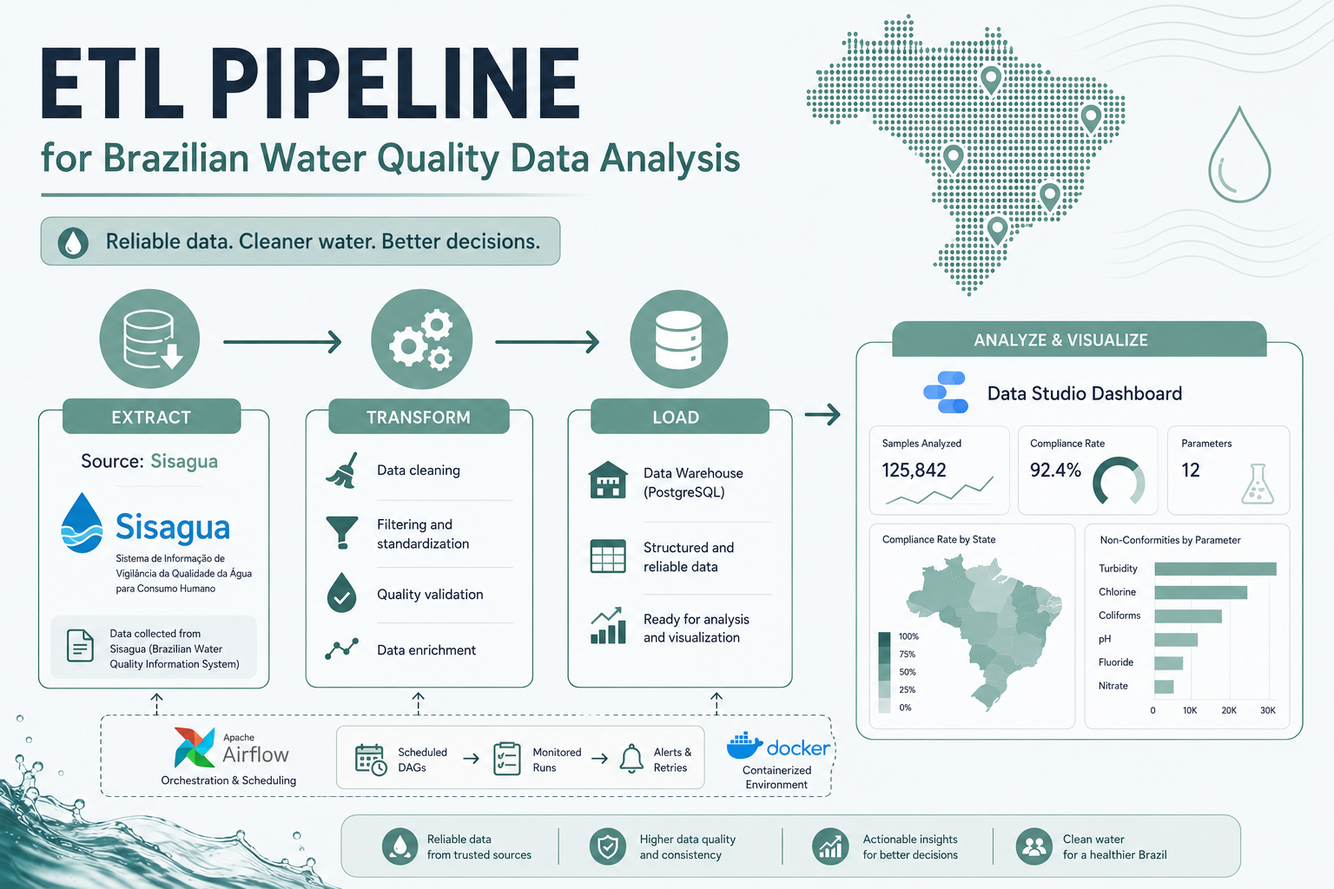
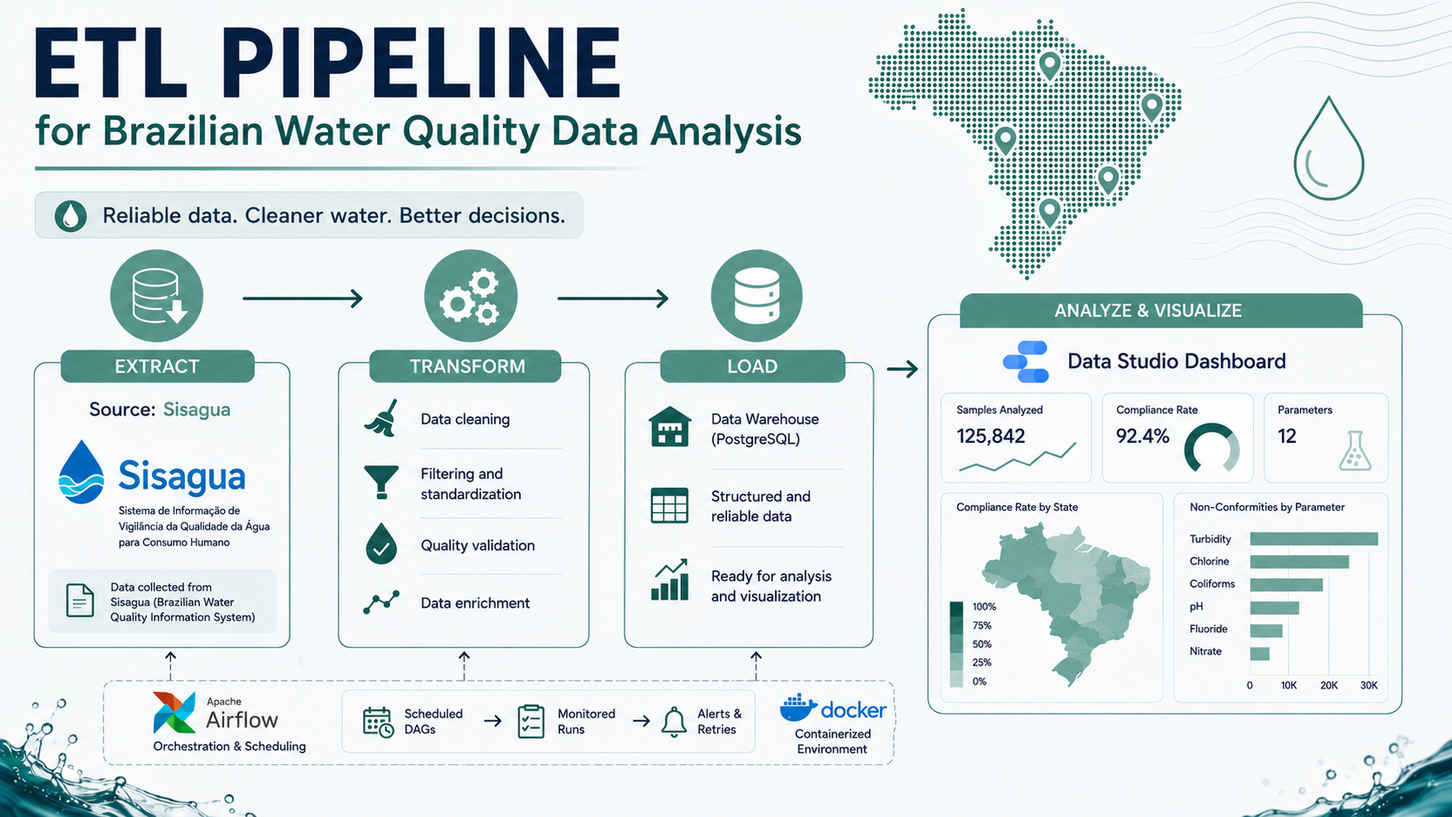
updates

diff --git a/data/projects/data/water-quality-etl.ts b/data/projects/data/water-quality-etl.ts
@@ -11,22 +11,31 @@ export const waterQualityEtl: Project = {
     en: "From ETL to Analysis",
   },
   thumbnail: "/images/portfolio/data/water-quality-etl.png",
+  gallery: "/images/portfolio/data/water-quality-etl-gallery.png",
   date: "2026-08-23",
-  tags: ["ETL", "Python", "SQL", "Docker", "Airflow", "DAG", "Looker/Data Studio"],
+  tags: ["ETL", "Python", "SQL", "Docker", "Airflow", "DAG", "Data Studio"],
   links: [{ label: "Github", href: "https://github.com/gsiq8/water-quality-etl" }],
   body: [
     {
-      type: "paragraph",
-      text: {
-        en: "Back in 2023, I built a personalized email marketing tool for an e-commerce client — pull a customer's zip code, look up their local tap water quality, send them a report. It worked, but it was heavier and more expensive to run than it needed to be, mostly because Brazil's water quality system (SISAGUA) didn't have a public API yet. You had to work with bulk CSV exports, which meant a lot of manual wrangling before any of the data was usable.",
-        pt: "Em 2023, construí uma ferramenta de email marketing personalizada para um cliente de e-commerce — pegar o CEP do cliente, buscar a qualidade da água da torneira na região dele, enviar um relatório. Funcionava, mas era mais pesado e mais caro de rodar do que precisava ser, principalmente porque o sistema de qualidade da água do Brasil (SISAGUA) ainda não tinha uma API pública. Era preciso trabalhar com exportações de CSV em lote, o que significava bastante trabalho manual antes que os dados ficassem utilizáveis.",
-      },
+      type: "heading",
+      text: { en: "Overview", pt: "Visão Geral" },
     },
     {
       type: "paragraph",
       text: {
-        en: 'This year I rebuilt the same idea from scratch, smaller and on free tiers, as a live demo you can actually poke at: a pipeline that pulls Brazil\'s tap water quality data straight from the government\'s open-data API, cleans it up into something a non-technical person could actually read, and serves it back out through a Postgres database and a Looker Studio dashboard. You can check it out below. The marketing automation piece — the original email report flow — is still part of the project, but that\'s its own story; I get into it in more detail here [link TBD].',
-        pt: "Neste ano, reconstruí a mesma ideia do zero, menor e rodando em camadas gratuitas, como uma demo ao vivo que dá para explorar de verdade: um pipeline que puxa os dados de qualidade da água da torneira do Brasil direto da API de dados abertos do governo, limpa tudo até virar algo que uma pessoa não técnica consiga ler, e devolve isso através de um banco Postgres e um dashboard no Looker Studio. Você pode conferir abaixo. A parte de automação de marketing — o fluxo original de envio de relatório por email — ainda faz parte do projeto, mas é uma história à parte; entro em mais detalhes sobre isso aqui [link a definir].",
+        en: "I rebuilt a real-world water quality data pipeline from the ground up. It now pulls, cleans, and serves 2.3M+ records straight from Brazil's open government water-quality API (SISAGUA), fully automated and running on free-tier infrastructure. The output is a live dashboard, embedded below, plus the same email report tool the project started as: drop in a Brazilian zip code and get back what's actually in the local tap water.",
+        pt: "Reconstruí do zero um pipeline de dados real sobre qualidade da água. Hoje ele puxa, limpa e disponibiliza mais de 2,3 milhões de registros direto da API de dados abertos de qualidade da água do governo brasileiro (SISAGUA), de forma totalmente automatizada e rodando em infraestrutura de camada gratuita. O resultado é um dashboard ao vivo, incorporado abaixo, além da mesma ferramenta de relatório por email com que o projeto começou: informe um CEP brasileiro e receba o que realmente tem na água da torneira daquele local.",
+      },
+    },
+    {
+      type: "heading",
+      text: { en: "Architecture", pt: "Arquitetura" },
+    },
+    {
+      type: "paragraph",
+      text: {
+        en: "Raw records come in through SISAGUA's open-data API, get cleaned and transformed in Python, and land in a PostgreSQL database. Rather than storing the API response as-is, I designed the schema around the questions the BI layer actually needs to answer — not a raw dump. Airflow orchestrates the whole pipeline on a schedule, running fully containerized in Docker, with separate paths for incremental loads (day-to-day updates) and full historical loads (rebuilding from scratch); the same containers produce the same result whether the pipeline is processing a small update or rebuilding the full historical dataset. Data-quality validation runs automatically before anything reaches the dashboard, and Looker Studio reads straight from Postgres for the dashboard below.",
+        pt: "Os registros brutos chegam pela API de dados abertos do SISAGUA, são limpos e transformados em Python, e armazenados em um banco PostgreSQL. Em vez de guardar a resposta da API como ela vem, desenhei o schema em torno das perguntas que a camada de BI realmente precisa responder — não um despejo bruto de dados. O Airflow orquestra todo o pipeline de forma agendada, rodando totalmente containerizado em Docker, com caminhos separados para cargas incrementais (atualizações do dia a dia) e cargas históricas completas (reconstrução do zero); os mesmos containers produzem o mesmo resultado tanto processando uma atualização pequena quanto reconstruindo o histórico completo. A validação de qualidade dos dados roda automaticamente antes que qualquer coisa chegue ao dashboard, e o Looker Studio lê direto do Postgres para o dashboard abaixo.",
       },
     },
     {
@@ -35,31 +44,50 @@ export const waterQualityEtl: Project = {
       title: "Water Quality Dashboard",
     },
     {
+      type: "heading",
+      text: { en: "Engineering Challenges", pt: "Desafios de Engenharia" },
+    },
+    {
       type: "paragraph",
       text: {
-        en: 'The interesting part of rebuilding this wasn\'t the happy path, it was how much of the "obvious" plan turned out to be wrong once I actually tested it against live data. SISAGUA\'s API has five endpoints that looked like they\'d cover everything I needed — basic parameters, "other" parameters, samples out of spec, infrastructure, sampling plans. I built against all five, and only then noticed something off: the endpoint that was supposed to carry metals and pesticide readings wasn\'t returning any. I sampled it deep — hundreds of thousands of records in — and it was the same single microbiological parameter over and over. So I went back to the full API spec instead of just the five endpoints I\'d been told about, and found a different one entirely (a semester-based endpoint) that actually had the metals, pesticides, and organic compound data, with the safety threshold for each parameter built right into the record.',
-        pt: 'A parte interessante de reconstruir isso não foi o caminho feliz, foi o quanto do plano "óbvio" se mostrou errado assim que testei contra dados reais. A API do SISAGUA tem cinco endpoints que pareciam cobrir tudo que eu precisava — parâmetros básicos, "outros" parâmetros, amostras fora do padrão, infraestrutura, planos de amostragem. Construí em cima dos cinco, e só depois percebi algo estranho: o endpoint que deveria trazer leituras de metais e agrotóxicos não estava retornando nada. Investiguei bem a fundo — centenas de milhares de registros depois — e era sempre o mesmo único parâmetro microbiológico. Então voltei para a especificação completa da API em vez de me limitar aos cinco endpoints que eu tinha mapeado, e encontrei um totalmente diferente (um endpoint semestral) que de fato tinha os dados de metais, agrotóxicos e compostos orgânicos, com o limite de segurança de cada parâmetro já embutido no registro.',
+        en: "SISAGUA's API has five documented endpoints that looked like they covered everything I needed. I built against all five, then noticed one — the one that was supposed to carry metals and pesticide readings — was returning the same single microbiological parameter over and over, hundreds of thousands of records in. Going back to the full API spec instead of the five endpoints I'd been pointed to, I found a different one entirely: a semester-based endpoint that actually had the metals, pesticides, and organic compound data, with the safety threshold for each parameter built right into the record.",
+        pt: "A API do SISAGUA tem cinco endpoints documentados que pareciam cobrir tudo que eu precisava. Construí em cima dos cinco, e só depois percebi que um deles — o que deveria trazer leituras de metais e agrotóxicos — estava retornando sempre o mesmo único parâmetro microbiológico, centenas de milhares de registros depois. Voltando para a especificação completa da API em vez de me limitar aos cinco endpoints que eu tinha mapeado, encontrei um totalmente diferente: um endpoint semestral que de fato tinha os dados de metais, agrotóxicos e compostos orgânicos, com o limite de segurança de cada parâmetro já embutido no registro.",
       },
     },
     {
       type: "paragraph",
       text: {
-        en: 'That safety threshold — VMP, Valor Máximo Permitido, the max allowed value per parameter — turned into its own rabbit hole. I wanted every report to show not just "here\'s what\'s in your water" but "here\'s whether that\'s actually safe." The obvious move was to look up Brazil\'s official potability standard and hardcode the limits. Except the sources I found online disagreed with each other on the same parameter, and I wasn\'t willing to guess at something health-related. Digging into a historical government dataset I already had access to, I found the real thresholds — and then found something more interesting: those thresholds actually change over time, as the regulation gets revised. A value I\'d grabbed from 2022 data was already out of date by 2024. So instead of hardcoding anything, the pipeline now pulls the threshold live, matched to the exact period each water sample was collected in. It\'s a small design choice, but it\'s the difference between "looks right" and "is right."',
-        pt: 'Esse limite de segurança — o VMP, Valor Máximo Permitido — virou seu próprio buraco de coelho. Eu queria que cada relatório mostrasse não só "aqui está o que tem na sua água", mas "aqui está se isso é seguro ou não". O caminho óbvio era buscar o padrão oficial de potabilidade do Brasil e fixar os limites no código. Só que as fontes que encontrei online divergiam entre si no mesmo parâmetro, e eu não estava disposta a chutar algo relacionado à saúde. Cavando em uma base de dados histórica do governo à qual eu já tinha acesso, encontrei os limites reais — e aí encontrei algo mais interessante ainda: esses limites mudam ao longo do tempo, conforme a regulamentação é revisada. Um valor que eu tinha pego de dados de 2022 já estava desatualizado em 2024. Então, em vez de fixar qualquer coisa no código, o pipeline agora busca o limite ao vivo, casado com o período exato em que cada amostra de água foi coletada. É uma escolha pequena de design, mas é a diferença entre "parece certo" e "está certo".',
+        en: 'That safety threshold — VMP, the maximum allowed value per parameter — turned into the most interesting engineering decision in the project. My first instinct was to hardcode Brazil\'s official potability limits. Then I found the limits themselves change over time as the regulation gets revised — a threshold pulled from 2022 data was already outdated by 2024. So instead of hardcoding anything, the pipeline models the threshold as time-dependent: each water sample is validated against the VMP that was actually in effect on the date it was collected. It\'s a small design choice, but it\'s the difference between data that looks right and data that is right.',
+        pt: 'Esse limite de segurança — o VMP, o valor máximo permitido por parâmetro — virou a decisão de engenharia mais interessante do projeto. Meu primeiro instinto foi fixar no código os limites oficiais de potabilidade do Brasil. Só que descobri que esses limites mudam ao longo do tempo, conforme a regulamentação é revisada — um valor pego de dados de 2022 já estava desatualizado em 2024. Então, em vez de fixar qualquer coisa no código, o pipeline modela o limite como algo dependente do tempo: cada amostra de água é validada contra o VMP que estava de fato em vigor na data em que foi coletada. É uma escolha pequena de design, mas é a diferença entre dados que parecem certos e dados que estão certos.',
       },
     },
     {
       type: "paragraph",
       text: {
-        en: "The rest of the build was the usual pile of infrastructure gremlins that don't show up until you actually run things end to end: Airflow's newer major version quietly renamed half the API I'd built DAGs against before, Docker's default networking couldn't reach Supabase's direct connection at all (IPv6-only, fixed by switching to their connection pooler), and a couple of unpinned dependencies in an old requirements file broke cleanly in a fresh container even though they'd worked fine in a stale local environment for years. None of these are exotic problems — they're the kind of thing you only catch by actually deploying, not by reading the code and assuming it's fine.",
-        pt: "O resto da construção foi a pilha usual de perrengues de infraestrutura que só aparecem quando você roda tudo de ponta a ponta de verdade: uma versão mais nova do Airflow renomeou silenciosamente metade da API sobre a qual eu tinha construído as DAGs, a rede padrão do Docker não conseguia alcançar a conexão direta do Supabase de jeito nenhum (só IPv6, resolvido trocando para o pooler de conexão deles), e algumas dependências sem versão fixada em um requirements antigo quebraram na hora em um container novo, mesmo tendo funcionado bem em um ambiente local desatualizado por anos. Nenhum desses é um problema exótico — são o tipo de coisa que só aparece quando você realmente faz o deploy, não quando você lê o código e assume que está tudo bem.",
+        en: "The rest of the build was the usual pile of infrastructure issues that don't show up until you run things end to end: a newer major version of Airflow deprecated part of the API my existing DAGs were built against, so upgrading meant rewriting the affected task definitions; Docker's default networking couldn't reach Supabase's direct connection at all because it's IPv6-only, fixed by switching to Supabase's connection pooler; and a couple of unpinned dependencies in an old requirements file broke cleanly in a fresh container despite having worked fine in a stale local environment for years. None of these are exotic problems — they're the kind of thing you only catch by actually deploying, not by reading the code and assuming it's fine.",
+        pt: "O resto da construção foi a pilha usual de problemas de infraestrutura que só aparecem quando você roda tudo de ponta a ponta de verdade: uma versão major mais nova do Airflow depreciou parte da API sobre a qual minhas DAGs existentes tinham sido construídas, então atualizar significou reescrever as tasks afetadas; a rede padrão do Docker não conseguia alcançar a conexão direta do Supabase de jeito nenhum porque ela é só IPv6, resolvido trocando para o pooler de conexão do Supabase; e algumas dependências sem versão fixada em um requirements antigo quebraram na hora em um container novo, mesmo tendo funcionado bem em um ambiente local desatualizado por anos. Nenhum desses é um problema exótico — são o tipo de coisa que só aparece quando você realmente faz o deploy, não quando você lê o código e assume que está tudo bem.",
       },
+    },
+    {
+      type: "heading",
+      text: { en: "What Changed Since 2023", pt: "O Que Mudou Desde 2023" },
     },
     {
       type: "paragraph",
       text: {
-        en: "If you want to see what your own city's tap water looks like, or you're the kind of person who reads a data pipeline write-up all the way to the bottom (respect), I'm running the original email report flow from this project too — drop your email below and I'll send you a full water quality report for your city.",
-        pt: "Se você quer ver como está a água da torneira na sua própria cidade, ou é do tipo que lê um texto sobre pipeline de dados até o final (respeito), eu também estou rodando o fluxo original de relatório por email deste projeto — deixe seu email abaixo e eu te envio um relatório completo de qualidade da água da sua cidade.",
+        en: "This isn't a new idea. Back in 2023 I built a version of this for an e-commerce client: pull a customer's zip code, look up local tap water quality, send them a report. It worked, but SISAGUA didn't have a public API yet, so it ran on manually-wrangled bulk CSV exports — heavier and more expensive to operate than it needed to be. Revisiting it now wasn't about redoing the same thing; it was about rebuilding the underlying data architecture properly, now that a real API exists: automated ingestion instead of manual CSVs, a schema and validation layer instead of ad hoc cleaning, and a live dashboard instead of email-only output. The email report is still part of the project — it's below — but the platform behind it is a different piece of engineering entirely.",
+        pt: "Essa não é uma ideia nova. Em 2023, construí uma versão disso para um cliente de e-commerce: pegar o CEP do cliente, buscar a qualidade da água da torneira na região dele, enviar um relatório. Funcionava, mas o SISAGUA ainda não tinha uma API pública, então rodava em cima de exportações de CSV em lote trabalhadas manualmente — mais pesado e mais caro de operar do que precisava ser. Revisitar o projeto agora não foi sobre refazer a mesma coisa; foi sobre reconstruir a arquitetura de dados por trás dele de forma correta, agora que existe uma API de verdade: ingestão automatizada em vez de CSVs manuais, um schema e uma camada de validação em vez de limpeza ad hoc, e um dashboard ao vivo em vez de uma saída só por email. O relatório por email ainda faz parte do projeto — está logo abaixo — mas a plataforma por trás dele é um trabalho de engenharia completamente diferente.",
+      },
+    },
+    {
+      type: "heading",
+      text: { en: "Try It Yourself", pt: "Experimente Você Mesmo" },
+    },
+    {
+      type: "paragraph",
+      text: {
+        en: "Want to see the pipeline in action? Drop your email and a Brazilian zip code below to receive a full water-quality report for that location — the same report the original 2023 version sent, now running on this rebuilt platform. (And if you read a data pipeline write-up all the way to the bottom: respect.)",
+        pt: "Quer ver o pipeline em ação? Deixe seu email e um CEP brasileiro abaixo para receber um relatório completo de qualidade da água daquele local — o mesmo relatório que a versão original de 2023 enviava, agora rodando nessa plataforma reconstruída. (E se você leu um texto sobre pipeline de dados até o final: respeito.)",
       },
     },
     {

diff --git a/components/portfolio/ProjectDetail.tsx b/components/portfolio/ProjectDetail.tsx
@@ -2,32 +2,37 @@
 
 import Image from "next/image";
 import { useLanguage } from "@/lib/i18n/LanguageContext";
+import { datetime } from "@/lib/formatDate";
 import { ContentBlocks } from "./ContentBlocks";
 import type { Project } from "@/data/types";
 
+
 export function ProjectDetail({ project }: { project: Project }) {
-  const { localize } = useLanguage();
+  const { localize, locale } = useLanguage();
 
   return (
     <article>
       <div className="relative mb-8 aspect-video w-full overflow-hidden rounded-lg bg-neutral-100">
         <Image src={project.thumbnail} alt="" fill sizes="(min-width: 768px) 768px, 100vw" className="object-cover" />
       </div>
-      <h1 className="text-3xl font-semibold tracking-tight">{localize(project.title)}</h1>
-      <p className="mt-2 text-sm text-neutral-500">
-        {project.date}
-        {project.tags && project.tags.length > 0 ? ` · ${project.tags.join(", ")}` : ""}
+      <p className="mt-2 text-sm font-sans capitalize text-neutral-500">
+        {datetime(project.date, locale)}
       </p>
-
+      <h1 className="mt-8 text-3xl font-semibold font-sans tracking-tight">{localize(project.title)}</h1>
+      <h2 className="mt-1 text-2xl font-light font-sans text-neutral-700 tracking-tight">{localize(project.description)}</h2>
+      
+      <p className="mt-2 text-sm font-mono uppercase text-neutral-500">
+        {project.tags && project.tags.length > 0 ? `${project.tags.join(" • ")}` : ""}
+      </p>
       {project.links && project.links.length > 0 && (
-        <div className="mt-4 flex flex-wrap gap-3">
+        <div className="mt-8 flex flex-wrap gap-3">
           {project.links.map((link) => (
             <a
               key={link.href}
               href={link.href}
               target="_blank"
               rel="noopener noreferrer"
-              className="rounded-full border border-neutral-300 px-4 py-1.5 text-sm font-medium hover:bg-neutral-50"
+              className="rounded-full border border-neutral-300 px-3 py-1 text-sm font-medium hover:bg-neutral-50"
             >
               {link.label} ↗
             </a>
@@ -35,7 +40,9 @@ export function ProjectDetail({ project }: { project: Project }) {
         </div>
       )}
 
-      <div className="mt-8">
+     
+
+      <div className="mt-8 font-sans text-neutral-200">
         <ContentBlocks blocks={project.body} />
       </div>
     </article>

diff --git a/data/paths.ts b/data/paths.ts
@@ -2,6 +2,7 @@ import type { PathKey, PathPageData, Project } from "./types";
 import { waterQualityEtl } from "./projects/data/water-quality-etl";
 
 const PLACEHOLDER_THUMBNAIL = "/images/portfolio/placeholder.svg";
+const PLACEHOLDER_GALLERY = " /images/portfolio/placeholder-gallery.svg";
 
 function sampleProject(pathLabel: string): Project {
   return {
@@ -15,6 +16,7 @@ function sampleProject(pathLabel: string): Project {
       pt: "Uma ou duas frases descrevendo o projeto, exibidas no card da galeria.",
     },
     thumbnail: PLACEHOLDER_THUMBNAIL,
+    gallery: PLACEHOLDER_GALLERY,
     body: [
       {
         type: "paragraph",
@@ -34,9 +36,9 @@ export const paths: Record<PathKey, PathPageData> = {
     label: { en: "Data", pt: "Dados" },
     achievements: [
       {
-        title: { en: "[Sample certification — replace me]", pt: "[Certificação de exemplo — substituir]" },
-        issuer: "Issuer",
-        date: "2026-01",
+        title: { en: "Linear Algebra", pt: "Álgebra Linear" },
+        issuer: "Harvard Summer School",
+        date: "Harvard University 2026-08",
       },
     ],
     projects: [waterQualityEtl, sampleProject("Data")],

diff --git a/components/portfolio/ContentBlocks.tsx b/components/portfolio/ContentBlocks.tsx
@@ -13,6 +13,14 @@ export function ContentBlocks({ blocks }: { blocks: ContentBlock[] }) {
   return (
     <div className="space-y-6 text-neutral-800">
       {blocks.map((block, i) => {
+        if (block.type === "heading") {
+          return (
+            <h3 key={i} className="pt-2 text-lg font-semibold tracking-tight text-neutral-900">
+              {localize(block.text)}
+            </h3>
+          );
+        }
+
         if (block.type === "paragraph") {
           return <p key={i}>{localize(block.text)}</p>;
         }
@@ -51,7 +59,7 @@ export function ContentBlocks({ blocks }: { blocks: ContentBlock[] }) {
           );
         }
 
-        return <div key={i} className={`klaviyo-form-${block.formId}`} />;
+        return <div key={i} className={`bg-[#EFF5FB] pt-3 klaviyo-form-${block.formId}`} />;
       })}
     </div>
   );

diff --git a/components/portfolio/ProjectGalleryItem.tsx b/components/portfolio/ProjectGalleryItem.tsx
@@ -14,7 +14,7 @@ export function ProjectGalleryItem({ project, pathKey }: { project: Project; pat
       className="group flex gap-4 rounded-lg p-2 transition hover:bg-neutral-50"
     >
       <div className="relative h-24 w-32 flex-shrink-0 overflow-hidden rounded-md bg-neutral-100">
-        <Image src={project.thumbnail} alt="" fill sizes="128px" className="object-cover" />
+        <Image src={project.gallery} alt="" fill sizes="128px" className="object-cover" />
       </div>
       <div className="min-w-0">
         <h3 className="font-medium text-neutral-900 group-hover:underline">{localize(project.title)}</h3>

diff --git a/app/layout.tsx b/app/layout.tsx
@@ -30,11 +30,12 @@ export default function RootLayout({ children }: LayoutProps<"/">) {
     >
       <body className="min-h-full flex flex-col" suppressHydrationWarning>
         <LanguageProvider>{children}</LanguageProvider>
-        <Script
-          src="https://static.klaviyo.com/onsite/js/WyDf6D/klaviyo.js"
-          strategy="afterInteractive"
-          className="bg-[#EFF5FB]"
-        />
+        
+          <Script
+            src="https://static.klaviyo.com/onsite/js/WyDf6D/klaviyo.js"
+            strategy="afterInteractive"
+          />
+        
       </body>
     </html>
   );

diff --git a/lib/formatDate.ts b/lib/formatDate.ts
@@ -1,0 +1,13 @@
+import type { Locale } from "@/data/types";
+
+export function datetime(date: string, locale: Locale): string {
+  const d = new Date(`${date}T00:00:00`);
+
+  if (locale === "pt") {
+    const month = d.toLocaleDateString("pt-BR", { month: "short" }).replace(".", "");
+    const capitalized = month.charAt(0).toUpperCase() + month.slice(1);
+    return `${capitalized} ${d.getDate()}, ${d.getFullYear()}`;
+  }
+
+  return d.toLocaleDateString("en-US", { month: "short", day: "numeric", year: "numeric" });
+}

diff --git a/data/types.ts b/data/types.ts
@@ -19,6 +19,7 @@ export interface ProjectLink {
 }
 
 export type ContentBlock =
+  | { type: "heading"; text: LocalizedString }
   | { type: "paragraph"; text: LocalizedString }
   | { type: "embed"; url: string; title?: string }
   | { type: "image"; src: string; caption?: LocalizedString }
@@ -29,6 +30,7 @@ export interface Project {
   title: LocalizedString;
   description: LocalizedString;
   thumbnail: string;
+  gallery: string;
   body: ContentBlock[];
   date: string;
   tags?: string[];

diff --git a/lib/i18n/translations.ts b/lib/i18n/translations.ts
@@ -8,6 +8,8 @@ const translations = {
     contact: "Contact",
     resume: "Resume",
     language: "Language",
+    published: "Published",
+    updated: "Updated",
   },
   pt: {
     achievements: "Conquistas",
@@ -16,6 +18,8 @@ const translations = {
     contact: "Contato",
     resume: "Currículo",
     language: "Idioma",
+    published: "Publicado",
+    updated: "Atualizado",
   },
 } satisfies Record<Locale, Record<string, string>>;
 
